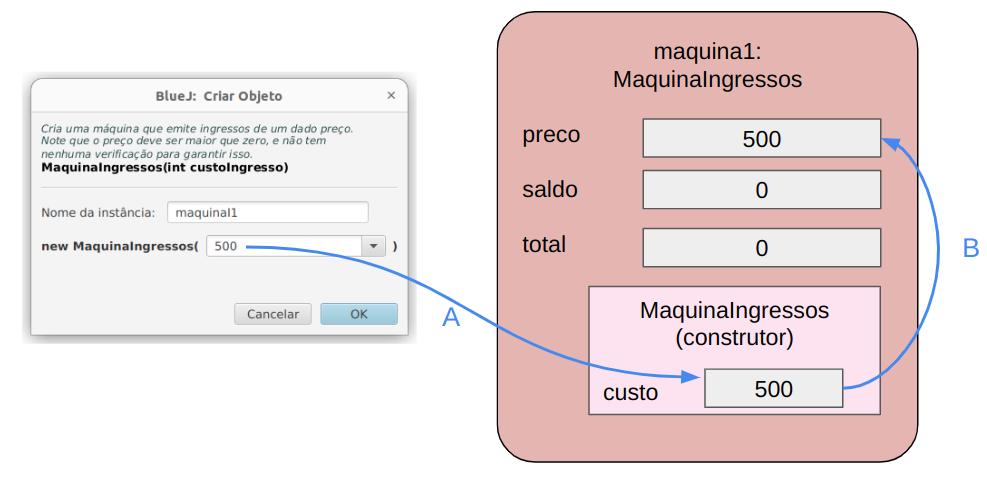
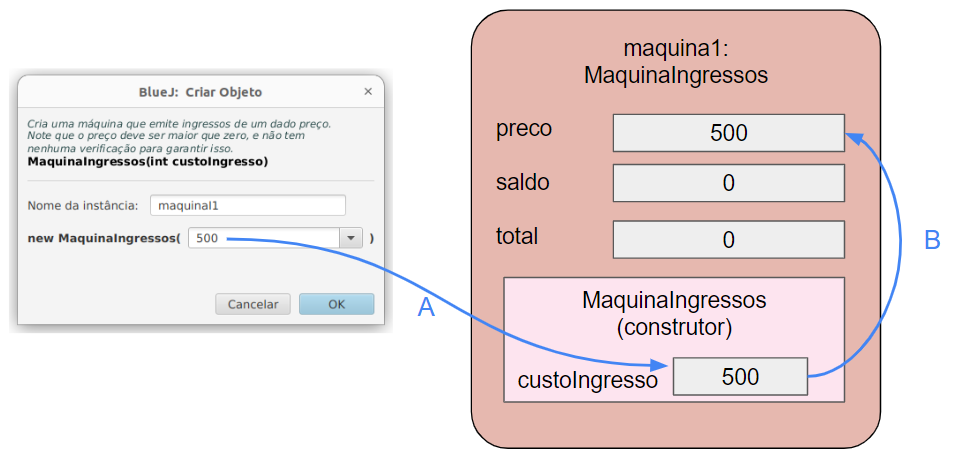
Correções erros após gravação

Changed region(s): [[0.0, 0.0, 0.9979, 0.9593], [0.5925, 0.0899, 0.8108, 0.2099]]

diff --git a/docs/cap2-1.html b/docs/cap2-1.html
@@ -1385,21 +1385,20 @@
 </div>
 </div>
 </div>
-<div class="fragment">
-<p>O lado direito (o que vem depois do <code>=</code>) é chamado <span class="alert">expressão</span>.</p>
-<ul>
-<li class="fragment">Uma expressão pode ser um único valor (como <code>custoIngresso</code>).</li>
-<li class="fragment">Ou algo mais complexo, como o resultado de uma cálculo</li>
-</ul>
-</div>
 </section>
 <section id="section-28" class="slide level2 smaller">
 <h2></h2>
+<p>O lado direito (o que vem depois do <code>=</code>) é chamado <span class="alert">expressão</span>.</p>
+<ul>
+<li class="fragment">Uma expressão pode ser um único valor (como <code>custoIngresso</code>).</li>
+<li class="fragment">Ou algo mais complexo, como o resultado de uma cálculo.</li>
+</ul>
+<div class="fragment">
 <p>Em Java, o tipo do resultado da expressão tem que ser <strong>o mesmo tipo</strong> da variável.</p>
 <ul>
-<li class="fragment"><p>Não podemos, por exemplo, guardar o valor de uma expressão que resulta em um número inteiro em uma variável string.</p></li>
-<li class="fragment"><p>Seguindo a mesma ideia, não podemos passar um valor inteiro como argumento para um parâmetro string de um construtor, por exemplo.</p></li>
+<li class="fragment">Ex.: não podemos guardar um resultado inteiro em uma variável string.</li>
 </ul>
+</div>
 <div class="fragment">
 <div class="callout callout-tip no-icon callout-titled callout-style-default">
 <div class="callout-body">
@@ -1876,19 +1875,19 @@
 <dl class="code-annotation-container-grid">
 <dt class="fragment" data-target-cell="annotated-cell-5" data-target-annotation="1">1</dt>
 <dd class="fragment">
-<span data-code-cell="annotated-cell-5" data-code-lines="5" data-code-annotation="1">A assinatura indica que o método tem retorno <code>void</code> e não espera nenhum parâmetro.</span>
+<span data-code-lines="5" data-code-annotation="1" data-code-cell="annotated-cell-5">A assinatura indica que o método tem retorno <code>void</code> e não espera nenhum parâmetro.</span>
 </dd>
 <dt class="fragment" data-target-cell="annotated-cell-5" data-target-annotation="2">2</dt>
 <dd class="fragment">
-<span data-code-cell="annotated-cell-5" data-code-lines="8,9,10,11,12" data-code-annotation="2">Os primeiros seis comandos imprimem o que vemos no terminal.</span>
+<span data-code-lines="8,9,10,11,12" data-code-annotation="2" data-code-cell="annotated-cell-5">Os primeiros seis comandos imprimem o que vemos no terminal.</span>
 </dd>
 <dt class="fragment" data-target-cell="annotated-cell-5" data-target-annotation="3">3</dt>
 <dd class="fragment">
-<span data-code-cell="annotated-cell-5" data-code-lines="16" data-code-annotation="3">O sétimo comando adiciona o saldo atual inserido pelo usuário ao total acumulado.</span>
+<span data-code-lines="16" data-code-annotation="3" data-code-cell="annotated-cell-5">O sétimo comando adiciona o saldo atual inserido pelo usuário ao total acumulado.</span>
 </dd>
 <dt class="fragment" data-target-cell="annotated-cell-5" data-target-annotation="4">4</dt>
 <dd class="fragment">
-<span data-code-cell="annotated-cell-5" data-code-lines="18" data-code-annotation="4">O último comando retorna o saldo para zero, esperando o próximo usuário.</span>
+<span data-code-lines="18" data-code-annotation="4" data-code-cell="annotated-cell-5">O último comando retorna o saldo para zero, esperando o próximo usuário.</span>
 </dd>
 </dl>
 </section>
